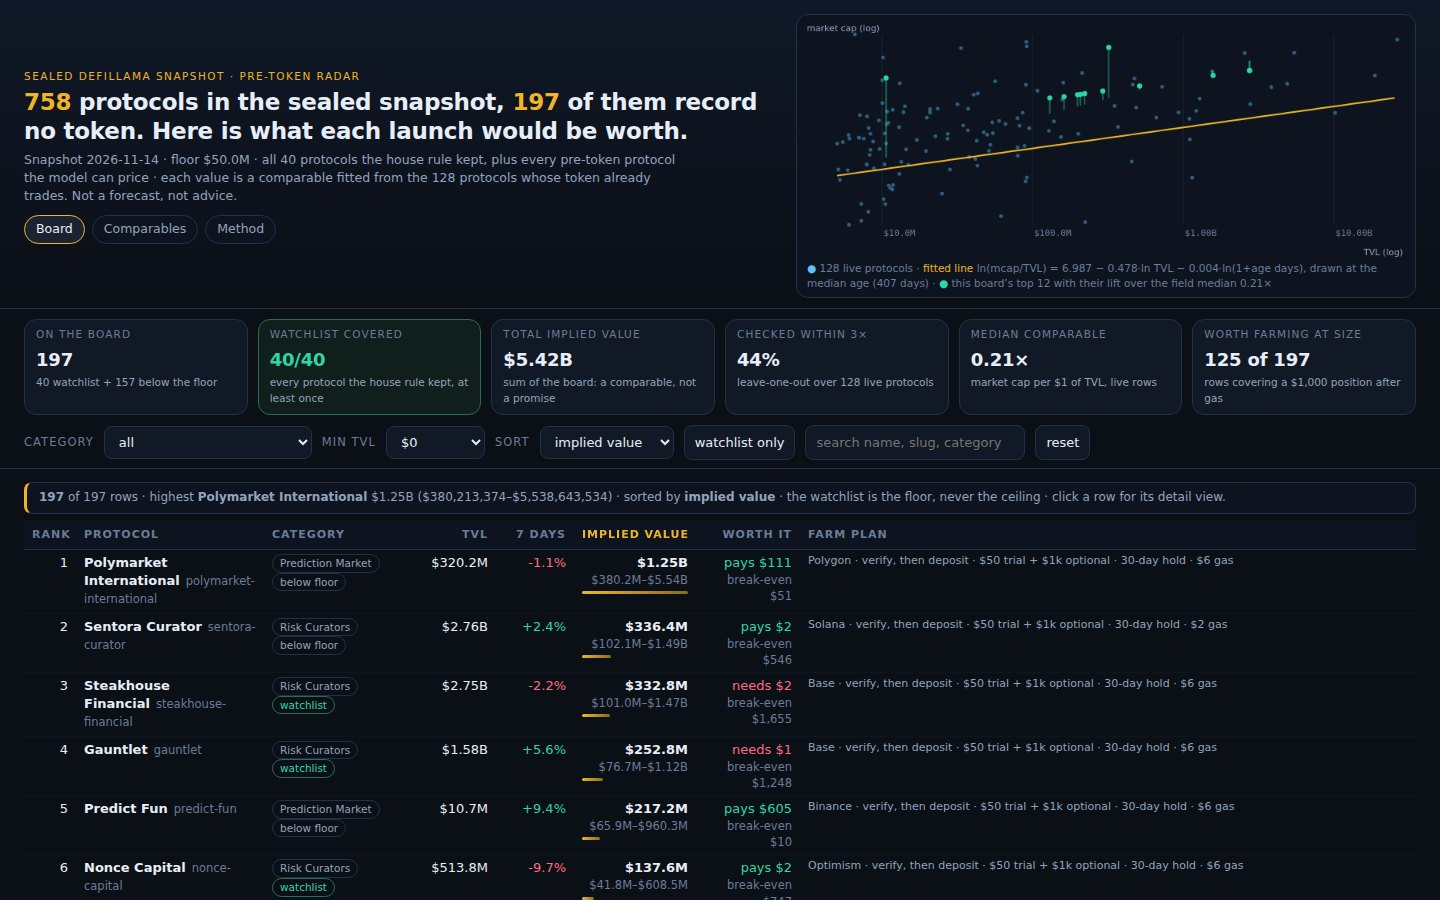
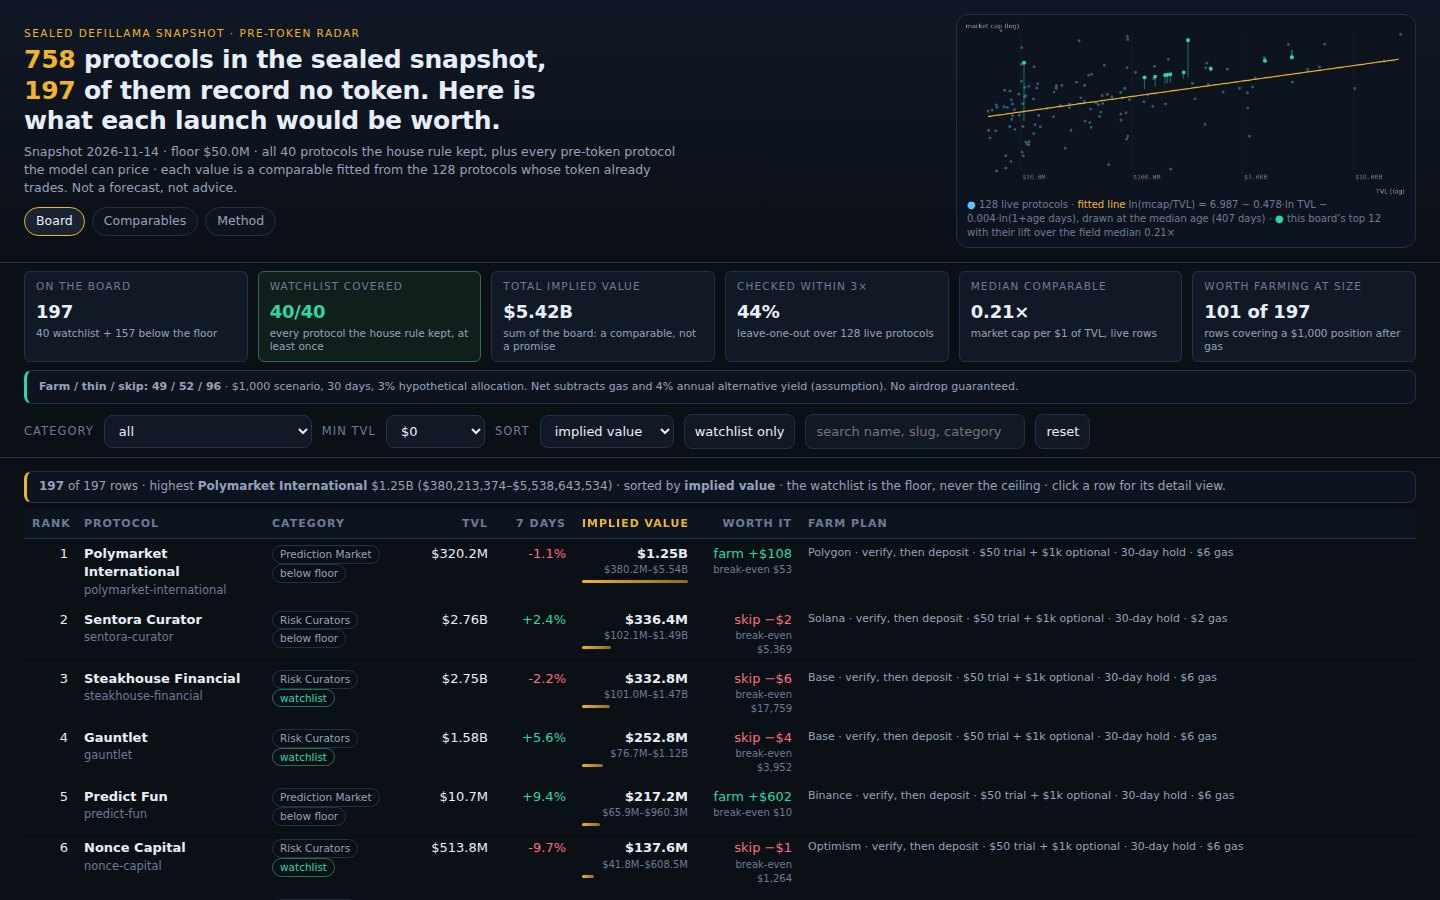
Compact radar desk with explicit opportunity-cost scenarios and corrected curve

diff --git a/dashboard/app.js b/dashboard/app.js
@@ -27,6 +27,7 @@
     card('Median comparable', S.globalMultiple.toFixed(2) + '×', 'market cap per $1 of TVL, live rows') +
     card('Worth farming at size', S.worthFarming + ' of ' + S.rows, 'rows covering a $' + S.testCapital.toLocaleString('en-US') + ' position after gas');
 
+  $('strip').insertAdjacentHTML('afterend', '<div class="note" id="scenario-summary"><b>Farm / thin / skip: ' + ['farm','thin','skip'].map(function(v){return R.rows.filter(function(r){return r.verdict===v;}).length;}).join(' / ') + '</b> · $1,000 scenario, 30 days, 3% hypothetical allocation. Net subtracts gas and 4% annual alternative yield (assumption). No airdrop guaranteed.</div>');
   // ---- the fitted curve -------------------------------------------------------------------------
   (function curve() {
     var c = $('curve'), x = c.getContext('2d'), W = c.width, H = c.height, pad = 44;
@@ -45,7 +46,7 @@
     x.strokeStyle = '#f0b429'; x.lineWidth = 2; x.beginPath();
     for (var v = minx; v <= maxx; v += 0.05) {
       var lnTvl = v * Math.LN10;
-      var lmcap = B[0] + (1 + B[1]) * lnTvl + B[2] * ageMid;
+      var lmcap = B[0] + (1 + B[1]) * lnTvl + B[2] * Math.log1p(ageMid);
       var y = lmcap / Math.LN10;
       if (v === minx) x.moveTo(X(v), Y(y)); else x.lineTo(X(v), Y(y));
     }
@@ -127,7 +128,7 @@
         '<td class="num">' + usd(r.tvl_usd) + '</td>' +
         '<td class="num ' + ((r.change_7d || 0) >= 0 ? 'pos' : 'neg') + '">' + pct(r.change_7d) + '</td>' +
         '<td class="num"><span class="val">' + usd(r.implied_value_usd) + '</span><div class="band">' + usd(r.low) + '–' + usd(r.high) + '</div><div class="bar" style="width:' + Math.max(4, r.implied_value_usd / max * 100).toFixed(1) + '%"></div></td>' +
-        '<td class="num ' + (r.scenario_net > 0 ? 'pos' : 'neg') + '">' + (r.scenario_net > 0 ? 'pays ' : 'needs ') + money(Math.abs(r.scenario_net)) + '<div class="band">break-even $' + r.break_even.toLocaleString('en-US') + '</div></td>' +
+        '<td class="num ' + (r.scenario_net > 0 ? 'pos' : 'neg') + '">' + (r.verdict + ' ') + (r.scenario_net < 0 ? '−' : '+') + money(Math.abs(r.scenario_net)) + '<div class="band">break-even $' + (r.break_even === null ? 'unreachable' : r.break_even.toLocaleString('en-US')) + '</div></td>' +
         '<td class="plan">' + esc(r.plan.chain) + ' · ' + esc(r.plan.short) + ' · ' + esc(r.plan.capitalLine) + ' · ' + esc(r.plan.holdLine) + ' · $' + r.plan.gas + ' gas</td>' +
         '</tr>';
     });
@@ -165,7 +166,7 @@
     r.farm_steps.forEach(function (s) { h += '<li>' + esc(s) + '</li>'; });
     h += '</ol>';
     h += '<p class="subline">At a $' + S.testCapital.toLocaleString('en-US') + ' position the model implies ' + money(Math.abs(r.scenario_net)) + ' net of the plan’s own $' + r.plan.gas +
-      ' of cost (' + (r.scenario_net > 0 ? 'it pays' : 'it needs a bigger position') + '; break-even near $' + r.break_even.toLocaleString('en-US') + ') on the ' + (S.share * 100) +
+      ' of cost (' + (r.scenario_net > 0 ? 'it pays' : 'it needs a bigger position') + '; break-even near $' + (r.break_even === null ? 'unreachable' : r.break_even.toLocaleString('en-US')) + ') on the ' + (S.share * 100) +
       '% community-allocation assumption this board states. Rewards may never come and the principal can be lost.</p>';
     if (peers.length) {
       h += '<h3>Its comparables, from the snapshot’s own live rows</h3><table><thead><tr><th>Protocol</th><th>Category</th><th class="num">TVL</th><th class="num">Market cap</th><th class="num">×</th></tr></thead><tbody>';
@@ -252,5 +253,6 @@
   $('foot').innerHTML = S.rows + '/' + S.rows + ' board rows agree with board.json · watchlist ' + S.watch + '/' + S.watch + ' covered · ' +
     'sealed input sha256 <span class="mono">' + R.sha256.slice(0, 16) + '…</span> read, never written · snapshot ' + esc(R.as_of) +
     ' · ' + R.live.length + ' live comparables fitted · values are comparables derived from the snapshot, not forecasts, and not financial advice.';
+  $('foot').insertAdjacentHTML('beforebegin', '<aside class="note">Scenario assumptions, not live quotes: $1,000 capital; 30 days; 3% hypothetical community allocation pro rata to TVL; network fees per plan; 4% annual alternative yield (illustrative, not a current T-bill quote). Net = hypothetical allocation − gas − foregone yield. Farm: net > $10; thin: $0–$10; skip: net ≤ $0. No eligibility or distribution is guaranteed.</aside>');
   render();
 })();

diff --git a/main.ts b/main.ts
@@ -187,8 +187,11 @@ const rows = rowSources.map((p) => {
     rank: 0, implied_value_usd: m.value,
     low: Math.round(m.value * quantile(0.25)), high: Math.round(m.value * quantile(0.75)),
     model: m, watch: watch.has(p.slug), farm_steps: plan.steps, plan,
-    scenario_net: Math.round((upside - plan.gas) * 100) / 100,
-    break_even: Math.round(plan.gas * p.tvl_usd / (m.value * SHARE)),
+    scenario_gross: upside,
+    opportunity_cost: TEST_CAPITAL * 0.04 * HOLD_DAYS / 365,
+    scenario_net: Math.round((upside - plan.gas - TEST_CAPITAL * 0.04 * HOLD_DAYS / 365) * 100) / 100,
+    verdict: upside - plan.gas - TEST_CAPITAL * 0.04 * HOLD_DAYS / 365 > 10 ? 'farm' : upside - plan.gas - TEST_CAPITAL * 0.04 * HOLD_DAYS / 365 > 0 ? 'thin' : 'skip',
+    break_even: m.value * SHARE / p.tvl_usd > 0.04 * HOLD_DAYS / 365 ? Math.ceil(plan.gas / (m.value * SHARE / p.tvl_usd - 0.04 * HOLD_DAYS / 365)) : null,
   };
 }).sort((a, b) => b.implied_value_usd - a.implied_value_usd || a.slug.localeCompare(b.slug));
 rows.forEach((r, i) => { r.rank = i + 1; });

diff --git a/dashboard/revision.css b/dashboard/revision.css
@@ -1,0 +1,8 @@
+/* Compact research desk: preserve the board as the primary reading surface. */
+.masthead{grid-template-columns:minmax(0,1fr) 460px;padding:14px 24px;align-items:center}
+h1{font-size:25px;max-width:32ch}.chart figcaption{font-size:10px}
+.strip{padding:8px 24px}.card{border-radius:6px}.card .d{line-height:1.3}
+#scenario-summary{margin:0 24px 10px;padding:8px 12px;border-left-color:#2fd6a5;font-size:11px}
+#board td{padding:6px 8px}.slug{display:block;margin-left:0;overflow-wrap:anywhere}
+.tag{white-space:normal}.plan{line-height:1.5}.band{font-size:10px}
+@media(max-width:1100px){.masthead{grid-template-columns:1fr}.chart{max-width:460px}}

diff --git a/dashboard/index.html b/dashboard/index.html
@@ -5,6 +5,7 @@
 <meta name="viewport" content="width=device-width, initial-scale=1">
 <title>Pre-Token Radar — implied launch value of protocols that record no token</title>
 <link rel="stylesheet" href="./app.css">
+<link rel="stylesheet" href="./revision.css">
 </head>
 <body>
 <header class="masthead">
